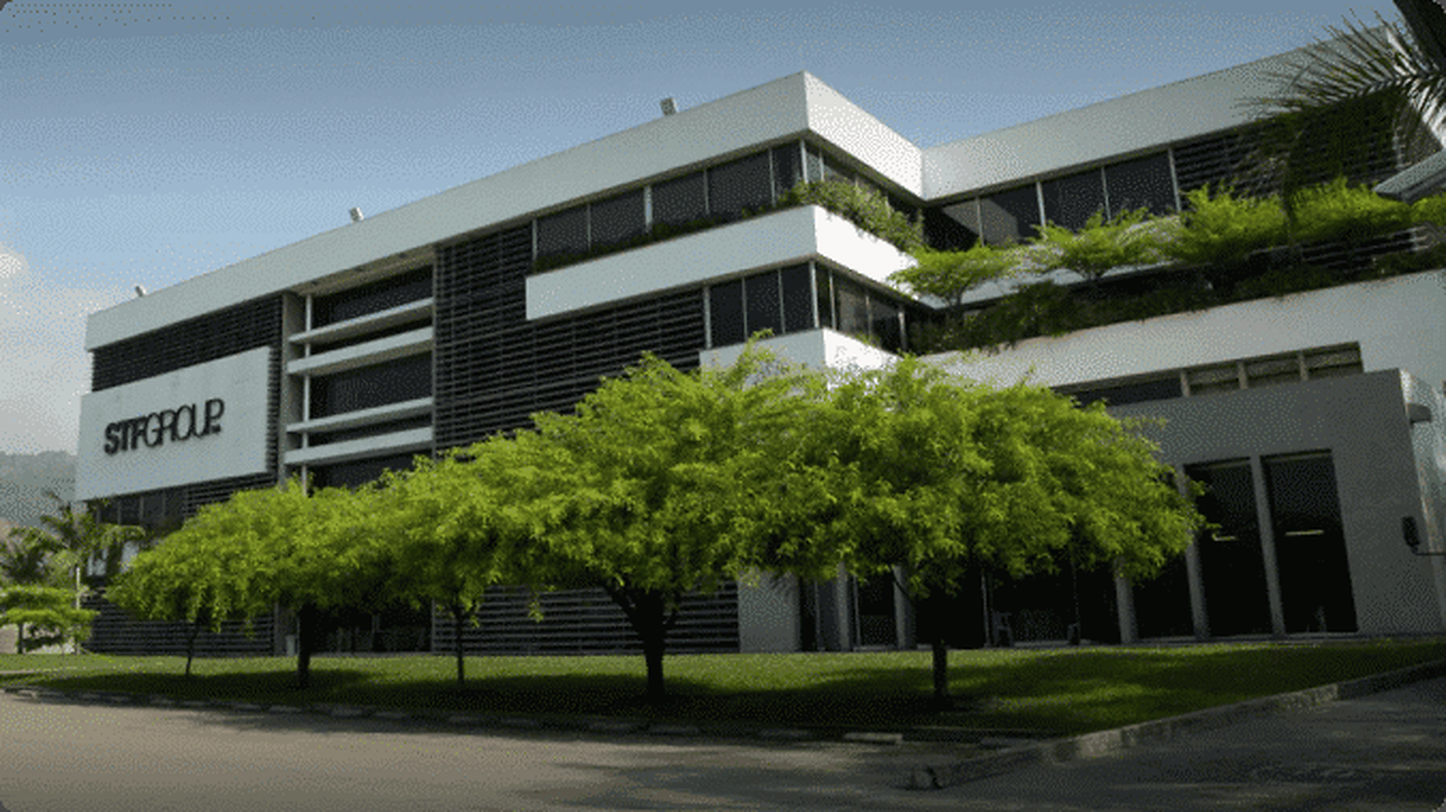
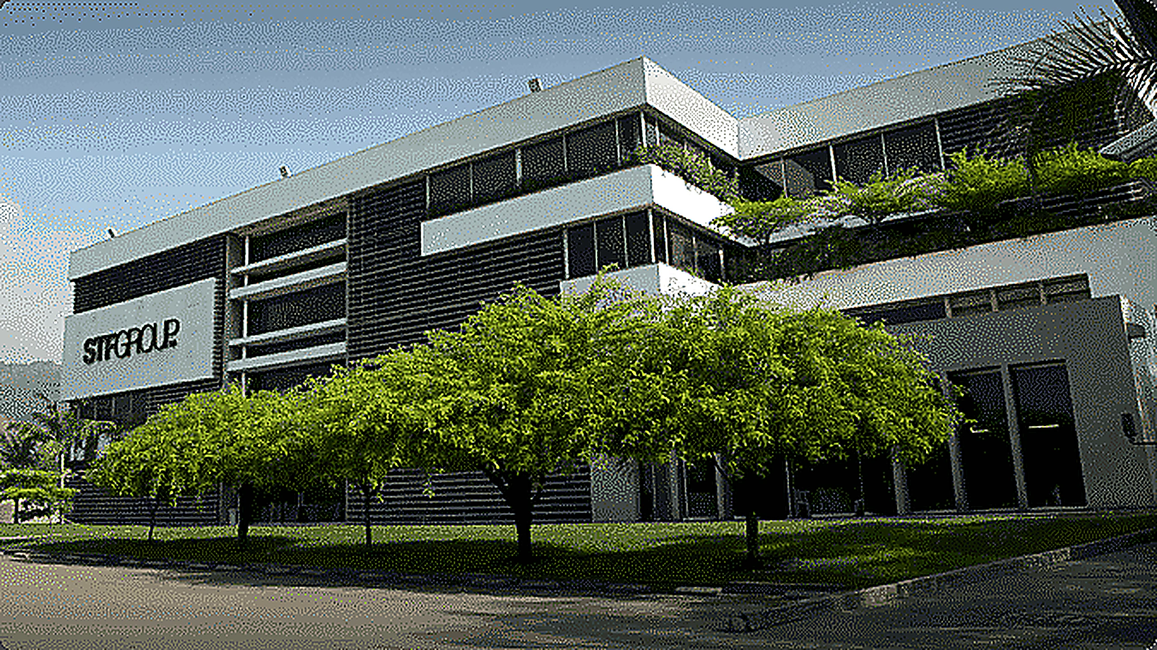
perf(login): mejora de nitidez con super-resolucion multietapa y renderizado nativo 1:1

diff --git a/css/login.css b/css/login.css
@@ -66,9 +66,9 @@ html, body {
   height: 100%;
   object-fit: cover;
   object-position: center center;
-  filter: brightness(0.62) contrast(1.08) saturate(0.95);
-  transform: scale(1.02);
-  will-change: transform;
+  filter: brightness(0.68) contrast(1.12) saturate(0.98);
+  image-rendering: -webkit-optimize-contrast;
+  image-rendering: crisp-edges;
 }
 
 /* Dark Carbon Neutral Mesh (Mayor transparencia y tono negro para ver la sede con nitidez) */
